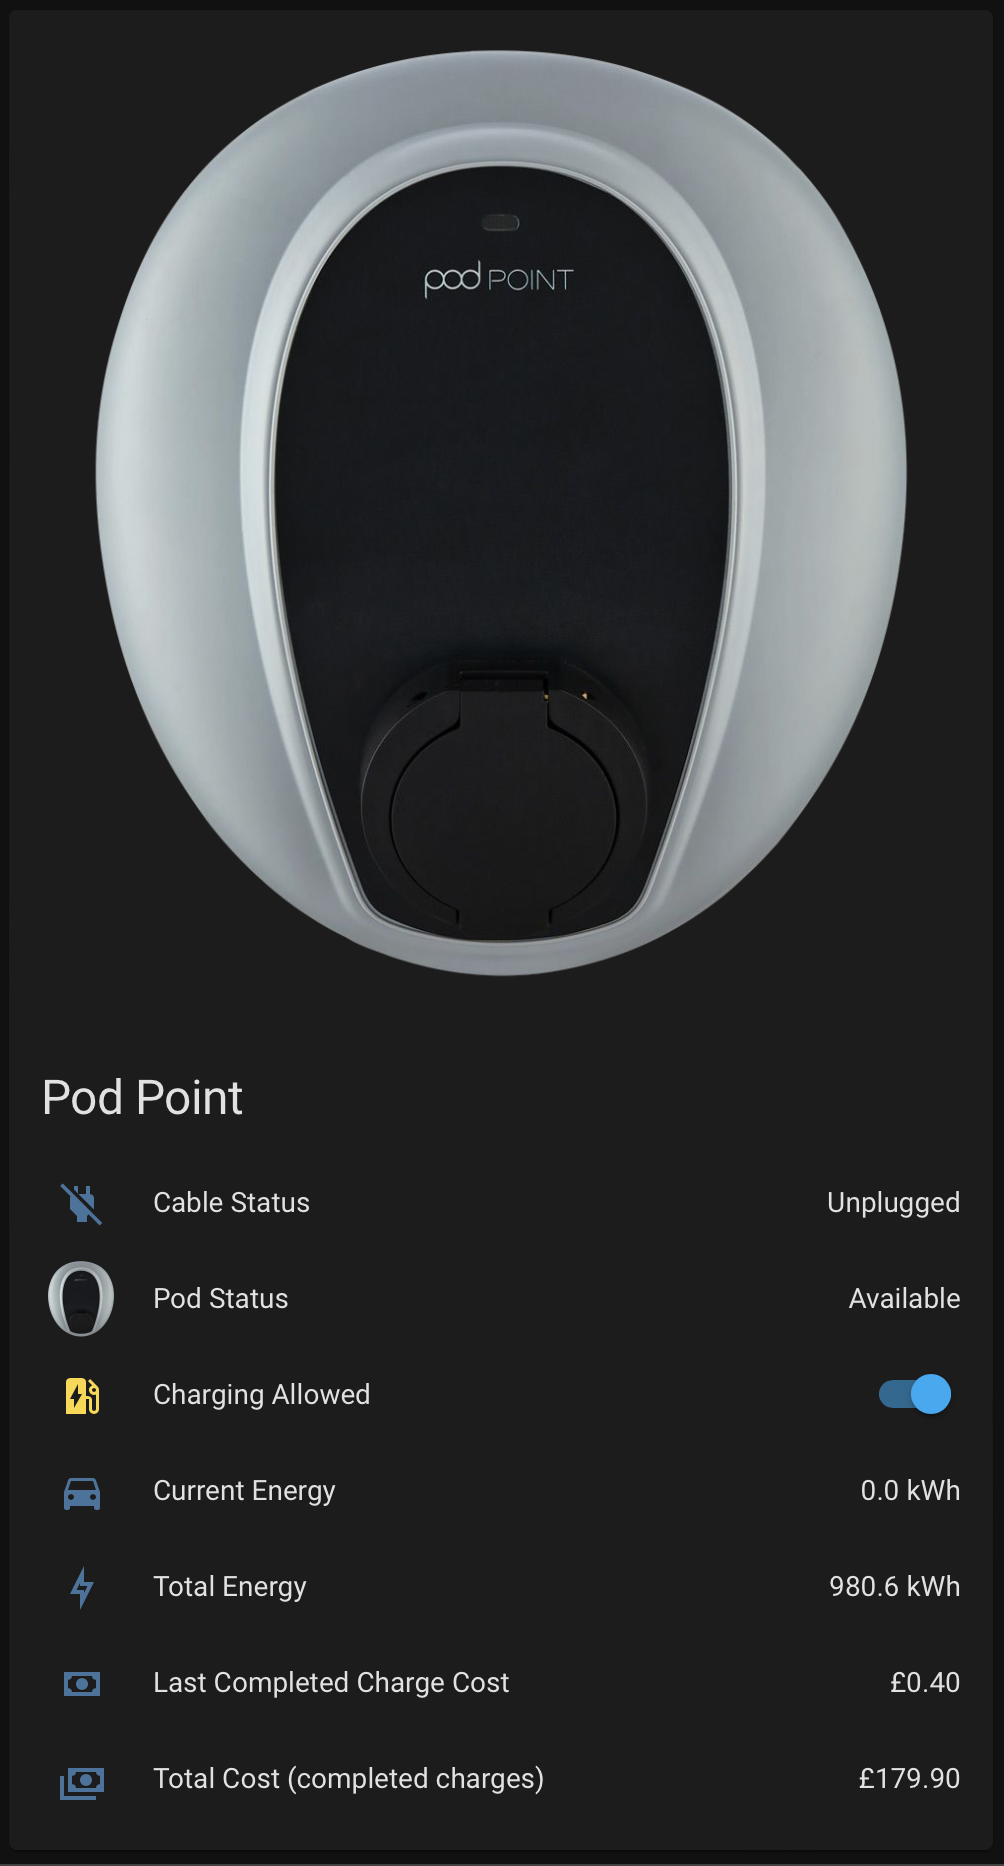
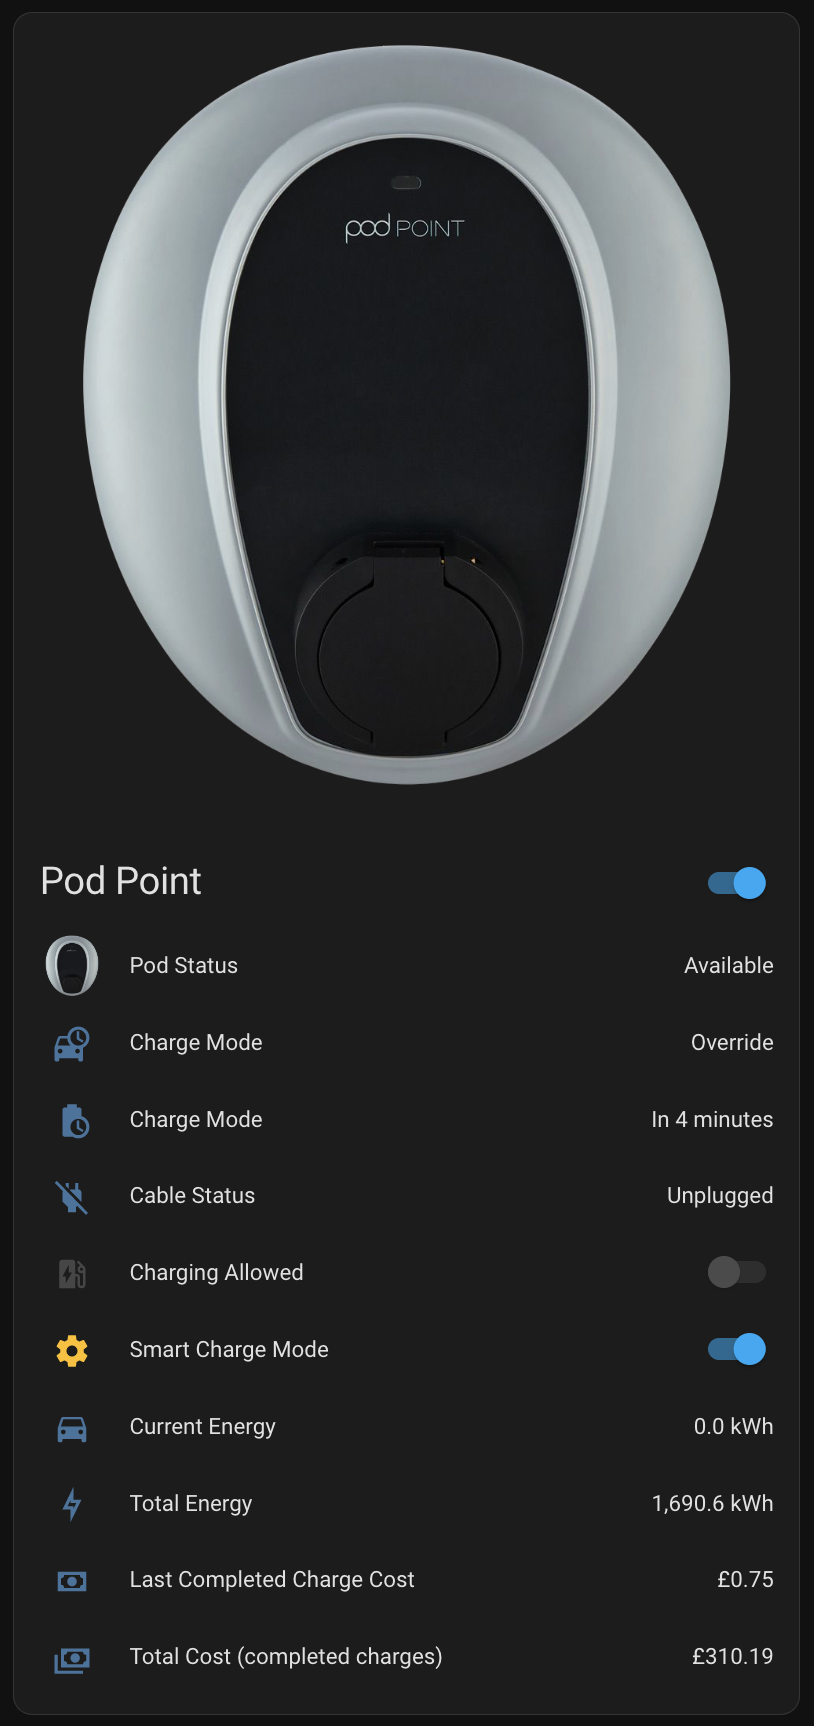
Add a switch for charge mode (#31)
* [#30] Add a switch to toggle between smart and manual charge modes

* Update example YML in README and keep smart mode switch on during override

* Update example image to include charge mode information

* Update README and INFO to include updated YML to match example image

* Rev version

* Fix test error

diff --git a/tests/test_switch.py b/tests/test_switch.py
@@ -1,28 +1,22 @@
 """Test pod_point switch."""
-import asyncio
-import pytest
+from unittest.mock import patch
 
-import aiohttp
-import homeassistant.helpers.aiohttp_client as client
-from .fixtures import POD_COMPLETE_FIXTURE
-from unittest.mock import call, patch
-
-from homeassistant.components import switch
 from homeassistant.components.switch import SERVICE_TURN_OFF, SERVICE_TURN_ON
 from homeassistant.const import ATTR_ENTITY_ID
+from podpointclient.pod import Pod
+import pytest
 from pytest_homeassistant_custom_component.common import MockConfigEntry
 
 from custom_components.pod_point import async_setup_entry
-from custom_components.pod_point.const import DEFAULT_NAME, DOMAIN, SWITCH
-
-from podpointclient.pod import Pod
+from custom_components.pod_point.const import DOMAIN, SWITCH
 
 from .const import MOCK_CONFIG
 
+
 @pytest.mark.asyncio
 @pytest.mark.enable_socket
-async def test_switch_services(hass, bypass_get_data):
-    """Test switch services."""
+async def test_allow_charging_switch(hass, bypass_get_data):
+    """Test allow charging switch"""
     # Create a mock entry so we don't have to go through config flow
     config_entry = MockConfigEntry(domain=DOMAIN, data=MOCK_CONFIG, entry_id="test")
     assert await async_setup_entry(hass, config_entry)
@@ -57,4 +51,39 @@ async def test_switch_services(hass, bypass_get_data):
         flag = title_func.call_args.kwargs["enabled"]
         pod_type = type(title_func.call_args.kwargs["pod"])
         assert False == flag
+        assert Pod == pod_type
+
+@pytest.mark.asyncio
+@pytest.mark.enable_socket
+async def test_charge_mode_switch(hass, bypass_get_data):
+    """Test charge mode switch"""
+    # Create a mock entry so we don't have to go through config flow
+    config_entry = MockConfigEntry(domain=DOMAIN, data=MOCK_CONFIG, entry_id="test")
+    assert await async_setup_entry(hass, config_entry)
+    await hass.async_block_till_done()
+
+    # Functions/objects can be patched directly in test code as well and can be used to test
+    # additional things, like whether a function was called or what arguments it was called with
+    with patch("podpointclient.client.PodPointClient.async_set_charge_mode_smart") as smart_mode_func:
+        await hass.services.async_call(
+            SWITCH,
+            SERVICE_TURN_ON,
+            service_data={ATTR_ENTITY_ID: "switch.psl_123456_smart_charge_mode"},
+            blocking=True,
+        )
+        assert smart_mode_func.called
+
+        pod_type = type(smart_mode_func.call_args.args[0])
+        assert Pod == pod_type
+
+    with patch("podpointclient.client.PodPointClient.async_set_charge_mode_manual") as manual_mode_func:
+        await hass.services.async_call(
+            SWITCH,
+            SERVICE_TURN_OFF,
+            service_data={ATTR_ENTITY_ID: "switch.psl_123456_smart_charge_mode"},
+            blocking=True,
+        )
+        assert manual_mode_func.called
+
+        pod_type = type(manual_mode_func.call_args.args[0])
         assert Pod == pod_type

diff --git a/custom_components/pod_point/switch.py b/custom_components/pod_point/switch.py
@@ -22,13 +22,15 @@ async def async_setup_entry(hass, entry, async_add_devices):
     switches = []
 
     for i in range(len(coordinator.data)):
-        switch = PodPointBinarySwitch(coordinator, entry, i)
+        charging_allowed_switch = PodPointChargingAllowedSwitch(coordinator, entry, i)
+        charge_mode_switch = PodPointChargeModeSwitch(coordinator, entry, i)
 
-        switches.append(switch)
+        switches.append(charging_allowed_switch)
+        switches.append(charge_mode_switch)
     async_add_devices(switches)
 
 
-class PodPointBinarySwitch(PodPointEntity, SwitchEntity):
+class PodPointChargingAllowedSwitch(PodPointEntity, SwitchEntity):
     """pod_point switch class."""
 
     _attr_has_entity_name = True
@@ -75,3 +77,33 @@ class PodPointBinarySwitch(PodPointEntity, SwitchEntity):
             self.pod.charge_override is not None
             and self.pod.charge_override.active
         )
+
+
+class PodPointChargeModeSwitch(PodPointEntity, SwitchEntity):
+    """pod_point switch class."""
+
+    _attr_name = "Smart Charge Mode"
+    _attr_icon = "mdi:cog"
+    _attr_has_entity_name = True
+
+    async def async_turn_on(self, **kwargs):  # pylint: disable=unused-argument
+        """Set charge mode to smart"""
+        api: PodPointClient = self.coordinator.api
+        await api.async_set_charge_mode_smart(self.pod)
+
+        await self.coordinator.async_request_refresh()
+
+    async def async_turn_off(self, **kwargs):  # pylint: disable=unused-argument
+        """Set charge mode to manual"""
+        api: PodPointClient = self.coordinator.api
+        await api.async_set_charge_mode_manual(self.pod)
+
+        await self.coordinator.async_request_refresh()
+
+    @property
+    def unique_id(self):
+        return f"{super().unique_id}_smart_charge_mode"
+
+    @property
+    def is_on(self):
+        return self.pod.charge_mode == ChargeMode.SMART or self.pod.charge_mode == ChargeMode.OVERRIDE

diff --git a/custom_components/pod_point/version.py b/custom_components/pod_point/version.py
@@ -1,2 +1,2 @@
 """Version of the Pod Point integration"""
-__version__ = "1.1.0"
+__version__ = "1.2.0"

diff --git a/info.md b/info.md
@@ -23,9 +23,12 @@ Platform | Description
 `sensor` (*Total Cost) | Show the total cost of all ***completed* charges.
 `sensor` (Last ***Completed* Charge Cost) | Show the total cost of the last ***completed* charge.
 `sensor` (Completed charge time) | Show a combined 'charge time' value from all charges for a given pod.
-`sensor` (Firmware Update) | Shows the current firmware version for your device and alerts if an update is available
 `sensor` (Balance) | Shows the balance on your PodPoint account.
-`switch` | Enable/disable  charging.
+`sensor` (Charge Mode) | Shows the charge mode your pod is currently in/
+`sensor` (Charge Override End Time) | Shows the end time for any configured 'charge now' override.
+`switch` (Allow Charging) | Enable/disable charging by enabling/disabling a schedule.
+`switch` (Smart Charge Mode) | Enable the switch for 'Smart' charge mode, disable it for 'Manual' charge mode.
+`update` (Firmware Update) | Shows the current firmware version for your device and alerts if an update is available
 
 > ***Total cost is based on the energy provider and kWh cost set in Pod Point.**
 
@@ -112,17 +115,23 @@ Solo 3 Tethered | /api/pod_point/static/2c-03.png
 ```yaml
 type: entities
 entities:
-  - entity: binary_sensor.psl_xxxxxx_cable_status
-    name: Cable Status
   - entity: sensor.psl_xxxxxx_status
     name: Pod Status
+  - entity: sensor.psl_xxxxxx_charge_mode
+    name: Charge Mode
+  - entity: sensor.psl_xxxxxx_charge_override_end_time
+    name: Charge Mode
+  - entity: binary_sensor.psl_xxxxxx_cable_status
+    name: Cable Status
   - entity: switch.psl_xxxxxx_charging_allowed
     name: Charging Allowed
+  - entity: switch.psl_xxxxxx_smart_charge_mode
+    name: Smart Charge Mode
   - entity: sensor.psl_xxxxxx_current_energy
     name: Current Energy
   - entity: sensor.psl_xxxxxx_total_energy
     name: Total Energy
-  - entity: sensor.psl_xxxxxx_last_complete_charge_cost
+  - entity: sensor.psl_xxxxxx_last_completed_charge_cost
     name: Last Completed Charge Cost
   - entity: sensor.psl_xxxxxx_total_cost
     name: Total Cost (completed charges)

diff --git a/README.md b/README.md
@@ -26,7 +26,8 @@ Platform | Description
 `sensor` (Balance) | Shows the balance on your PodPoint account.
 `sensor` (Charge Mode) | Shows the charge mode your pod is currently in/
 `sensor` (Charge Override End Time) | Shows the end time for any configured 'charge now' override.
-`switch` | Enable/disable  charging.
+`switch` (Allow Charging) | Enable/disable charging by enabling/disabling a schedule.
+`switch` (Smart Charge Mode) | Enable the switch for 'Smart' charge mode, disable it for 'Manual' charge mode.
 `update` (Firmware Update) | Shows the current firmware version for your device and alerts if an update is available
 
 > ***Total cost is based on the energy provider and kWh cost set in Pod Point.**
@@ -155,12 +156,18 @@ Solo 3 Tethered | /api/pod_point/static/2c-03.png
 ```yaml
 type: entities
 entities:
-  - entity: binary_sensor.psl_xxxxxx_cable_status
-    name: Cable Status
   - entity: sensor.psl_xxxxxx_status
     name: Pod Status
+  - entity: sensor.psl_xxxxxx_charge_mode
+    name: Charge Mode
+  - entity: sensor.psl_xxxxxx_charge_override_end_time
+    name: Charge Mode
+  - entity: binary_sensor.psl_xxxxxx_cable_status
+    name: Cable Status
   - entity: switch.psl_xxxxxx_charging_allowed
     name: Charging Allowed
+  - entity: switch.psl_xxxxxx_smart_charge_mode
+    name: Smart Charge Mode
   - entity: sensor.psl_xxxxxx_current_energy
     name: Current Energy
   - entity: sensor.psl_xxxxxx_total_energy
